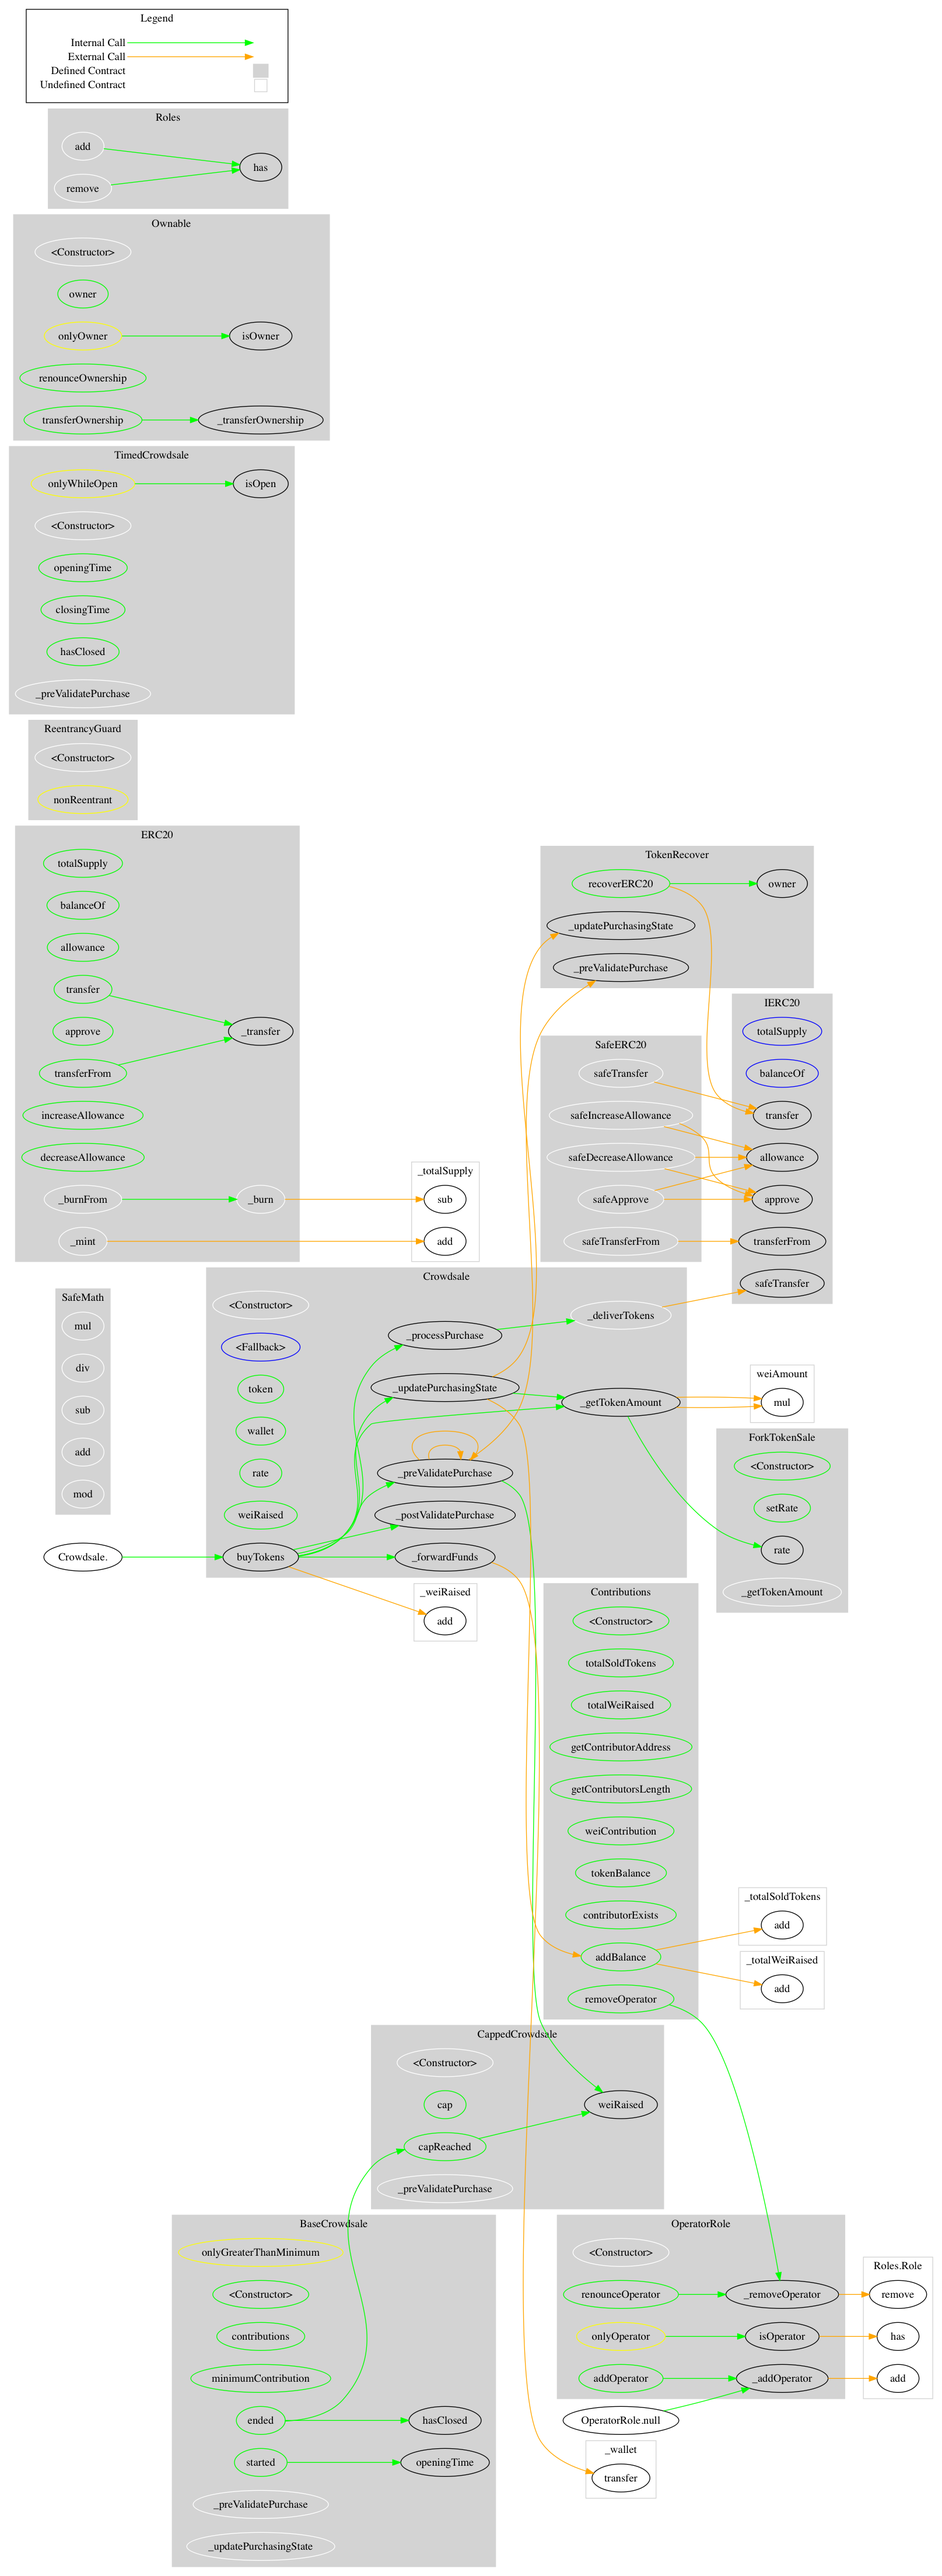
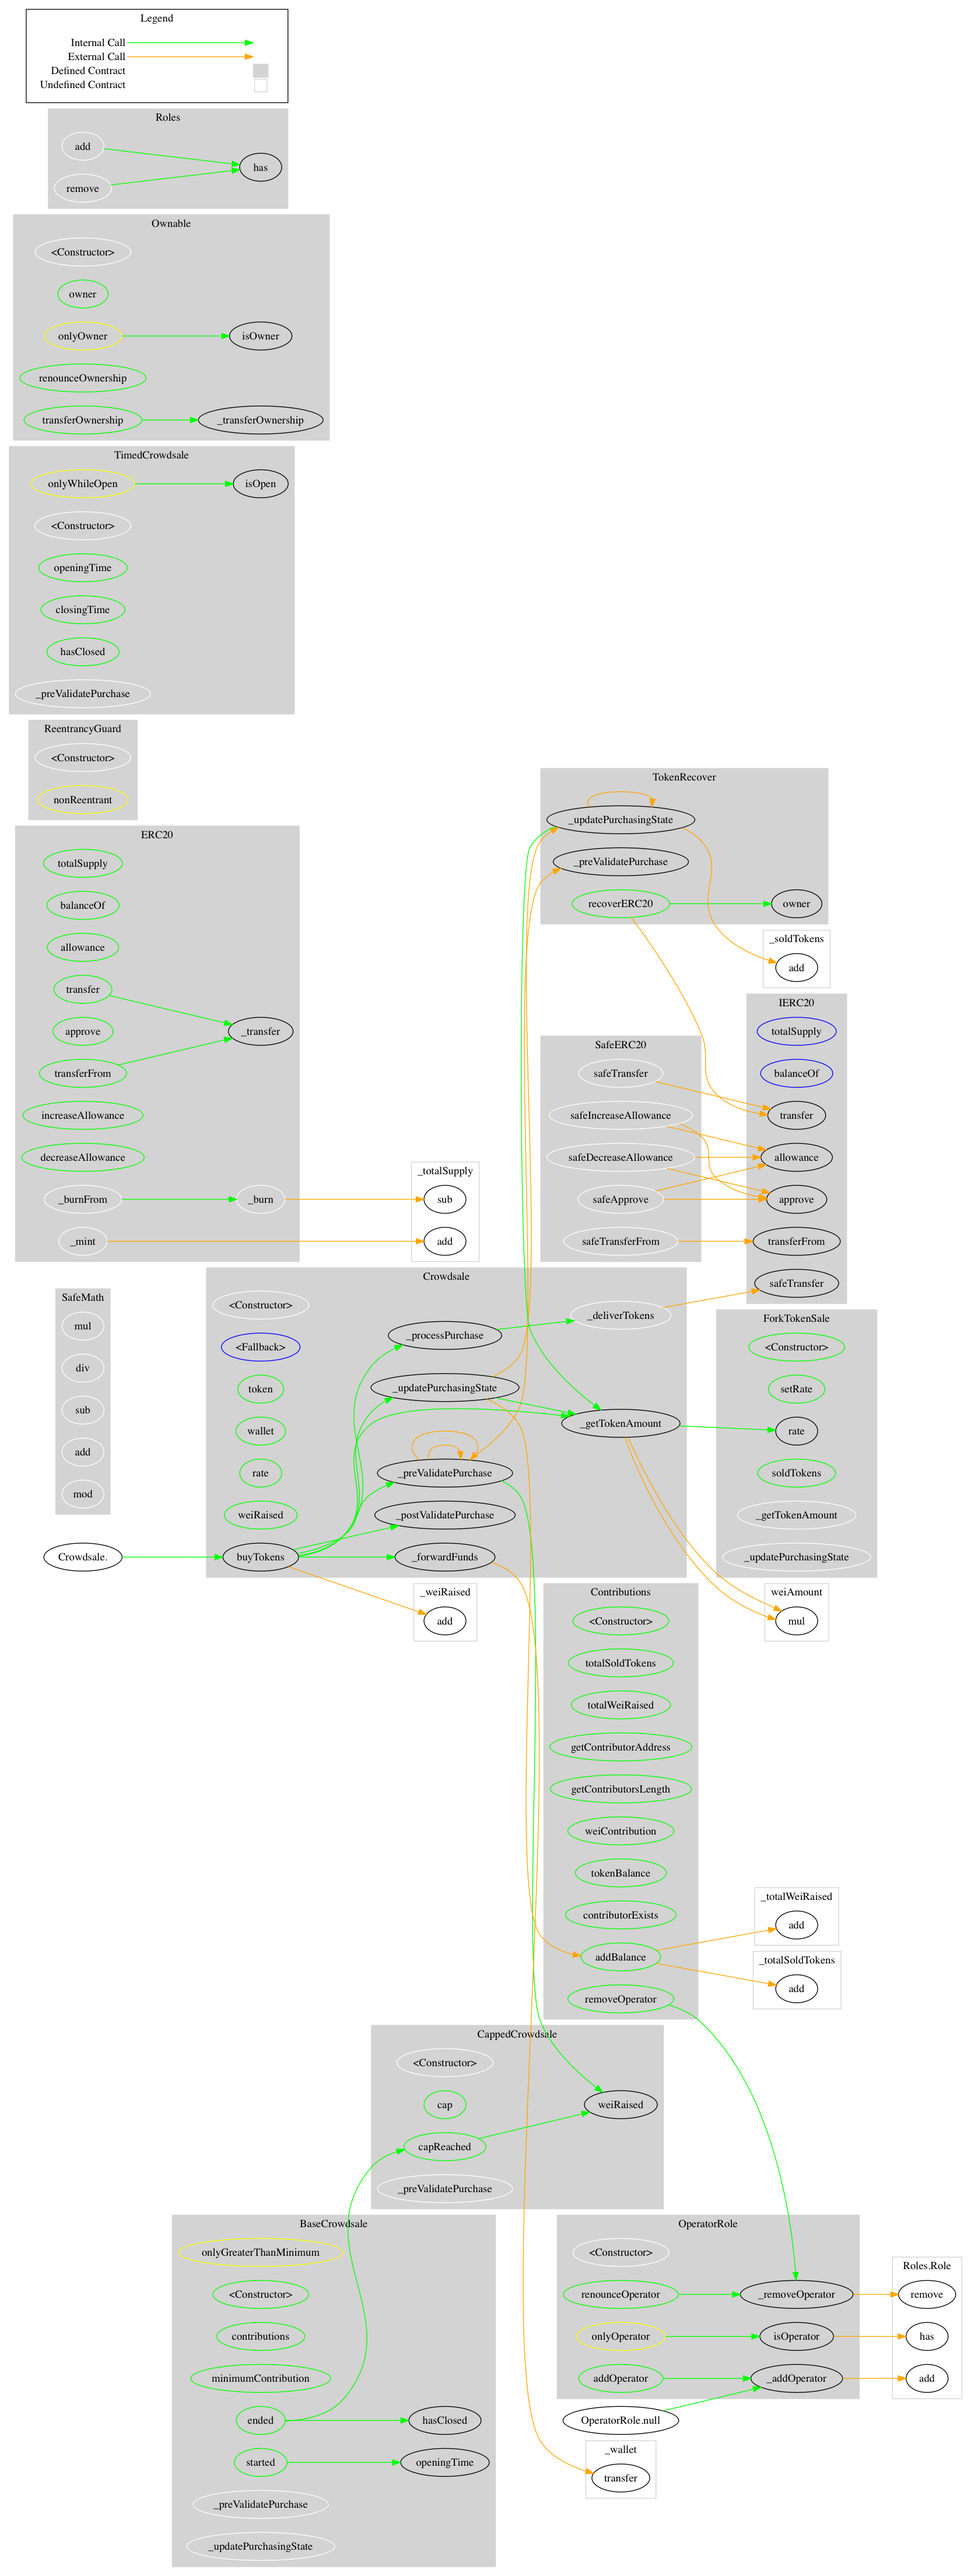
updated dist

diff --git a/analysis/description-table/ForkTokenSale.md b/analysis/description-table/ForkTokenSale.md
@@ -5,7 +5,7 @@
 
 |  File Name  |  SHA-1 Hash  |
 |-------------|--------------|
-| dist/ForkTokenSale.dist.sol | bcb2a7bc20c3dae4669a23a787d051183c9c31bb |
+| dist/ForkTokenSale.dist.sol | d0ee6b7ba28bdb2979ff875a765cc3efd16054c3 |
 
 
 ### Contracts Description Table
@@ -84,21 +84,6 @@
 | └ | capReached | Public ❗ |   |NO❗ |
 | └ | _preValidatePurchase | Internal 🔒 |   | |
 ||||||
-| **SafeMath** | Library |  |||
-| └ | mul | Internal 🔒 |   | |
-| └ | div | Internal 🔒 |   | |
-| └ | sub | Internal 🔒 |   | |
-| └ | add | Internal 🔒 |   | |
-| └ | mod | Internal 🔒 |   | |
-||||||
-| **IERC20** | Interface |  |||
-| └ | totalSupply | External ❗ |   |NO❗ |
-| └ | balanceOf | External ❗ |   |NO❗ |
-| └ | allowance | External ❗ |   |NO❗ |
-| └ | transfer | External ❗ | 🛑  |NO❗ |
-| └ | approve | External ❗ | 🛑  |NO❗ |
-| └ | transferFrom | External ❗ | 🛑  |NO❗ |
-||||||
 | **Ownable** | Implementation |  |||
 | └ | \<Constructor\> | Internal 🔒 | 🛑  | |
 | └ | owner | Public ❗ |   |NO❗ |
@@ -148,7 +133,9 @@
 | └ | \<Constructor\> | Public ❗ | 🛑  | BaseCrowdsale |
 | └ | setRate | Public ❗ | 🛑  | onlyOwner |
 | └ | rate | Public ❗ |   |NO❗ |
+| └ | soldTokens | Public ❗ |   |NO❗ |
 | └ | _getTokenAmount | Internal 🔒 |   | |
+| └ | _updatePurchasingState | Internal 🔒 | 🛑  | |
 
 
 ### Legend
